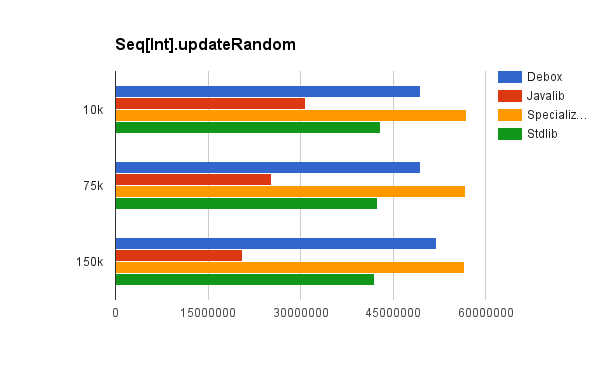
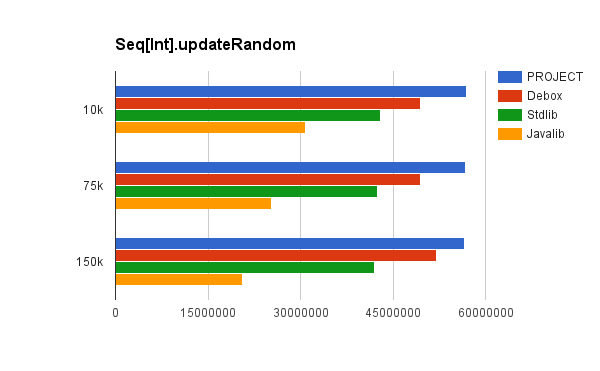
Sort charts in Seq[Int] benchmarks

diff --git a/project_name/index.html b/project_name/index.html
@@ -137,7 +137,7 @@ sum == 6
       For detailed benchmark result look into following gist:
       <a href="https://gist.github.com/">https://gist.github.com/</a>
       </p>
-    <h1 id="Seq" style="display: block;" class=" scalatex-site-Styles-hoverContainer scalatex-site-Styles-headerTag"><a class=" scalatex-site-Styles-headerLink" href="#Seq" style="position: absolute;right: 0px;"><i class="fa fa-link"></i></a>Seq</h1>
+    <h1 id="Seq[Int]" style="display: block;" class=" scalatex-site-Styles-hoverContainer scalatex-site-Styles-headerTag"><a class=" scalatex-site-Styles-headerLink" href="#Seq[Int]" style="position: absolute;right: 0px;"><i class="fa fa-link"></i></a>Seq[Int]</h1>
       <table><tr><td><img style="width: 400px;" src="img/seq_int_append.png" /></td><td><img style="width: 400px;" src="img/seq_int_foreach.png" /></td></tr><tr><td><img style="width: 400px;" src="img/seq_int_read_random.png" /></td><td><img style="width: 400px;" src="img/seq_int_read_sequential.png" /></td></tr><tr><td><img style="width: 400px;" src="img/seq_int_update_random.png" /></td><td><img style="width: 400px;" src="img/seq_int_update_sequential.png" /></td></tr><tr><td><img style="width: 400px;" src="img/seq_int_map.png" /></td><td><img style="width: 400px;" src="img/seq_int_remove.png" /></td></tr></table>
 
   <div style="margin: 0px;color: #333;text-align: center;padding: 2.5em 2em 0;border-bottom: 1px solid #eee;display: block;" id="Changelog" class=" scalatex-site-Styles-hoverContainer scalatex-site-Styles-headerTag"><h1 style="margin: 0.2em 0;font-size: 3em;font-weight: 300;">Changelog<a class=" scalatex-site-Styles-headerLink" href="#Changelog" style="position: absolute;right: 0px;"><i class="fa fa-link"></i></a></h1><br /></div>
@@ -148,7 +148,7 @@ sum == 6
       </li></ul></div>
 </div><script>
     scalatex.scrollspy.Controller().main(
-      [{"value":"PROJECT_NAME","children":[{"value":"Overview","children":[{"value":"Features","children":[]}]},{"value":"Set up","children":[]},{"value":"Usage","children":[{"value":"Example","children":[]}]},{"value":"Benchmarks","children":[{"value":"Seq","children":[]}]},{"value":"Changelog","children":[{"value":"0.1.0","children":[]}]}]}]
+      [{"value":"PROJECT_NAME","children":[{"value":"Overview","children":[{"value":"Features","children":[]}]},{"value":"Set up","children":[]},{"value":"Usage","children":[{"value":"Example","children":[]}]},{"value":"Benchmarks","children":[{"value":"Seq[Int]","children":[]}]},{"value":"Changelog","children":[{"value":"0.1.0","children":[]}]}]}]
   )</script><script>
     ['DOMContentLoaded', 'load'].forEach(function(ev){
       addEventListener(ev, function(){
@@ -158,4 +158,4 @@ sum == 6
         );
       })
     })
-  </script></body></html>
+  </script></body></html>
